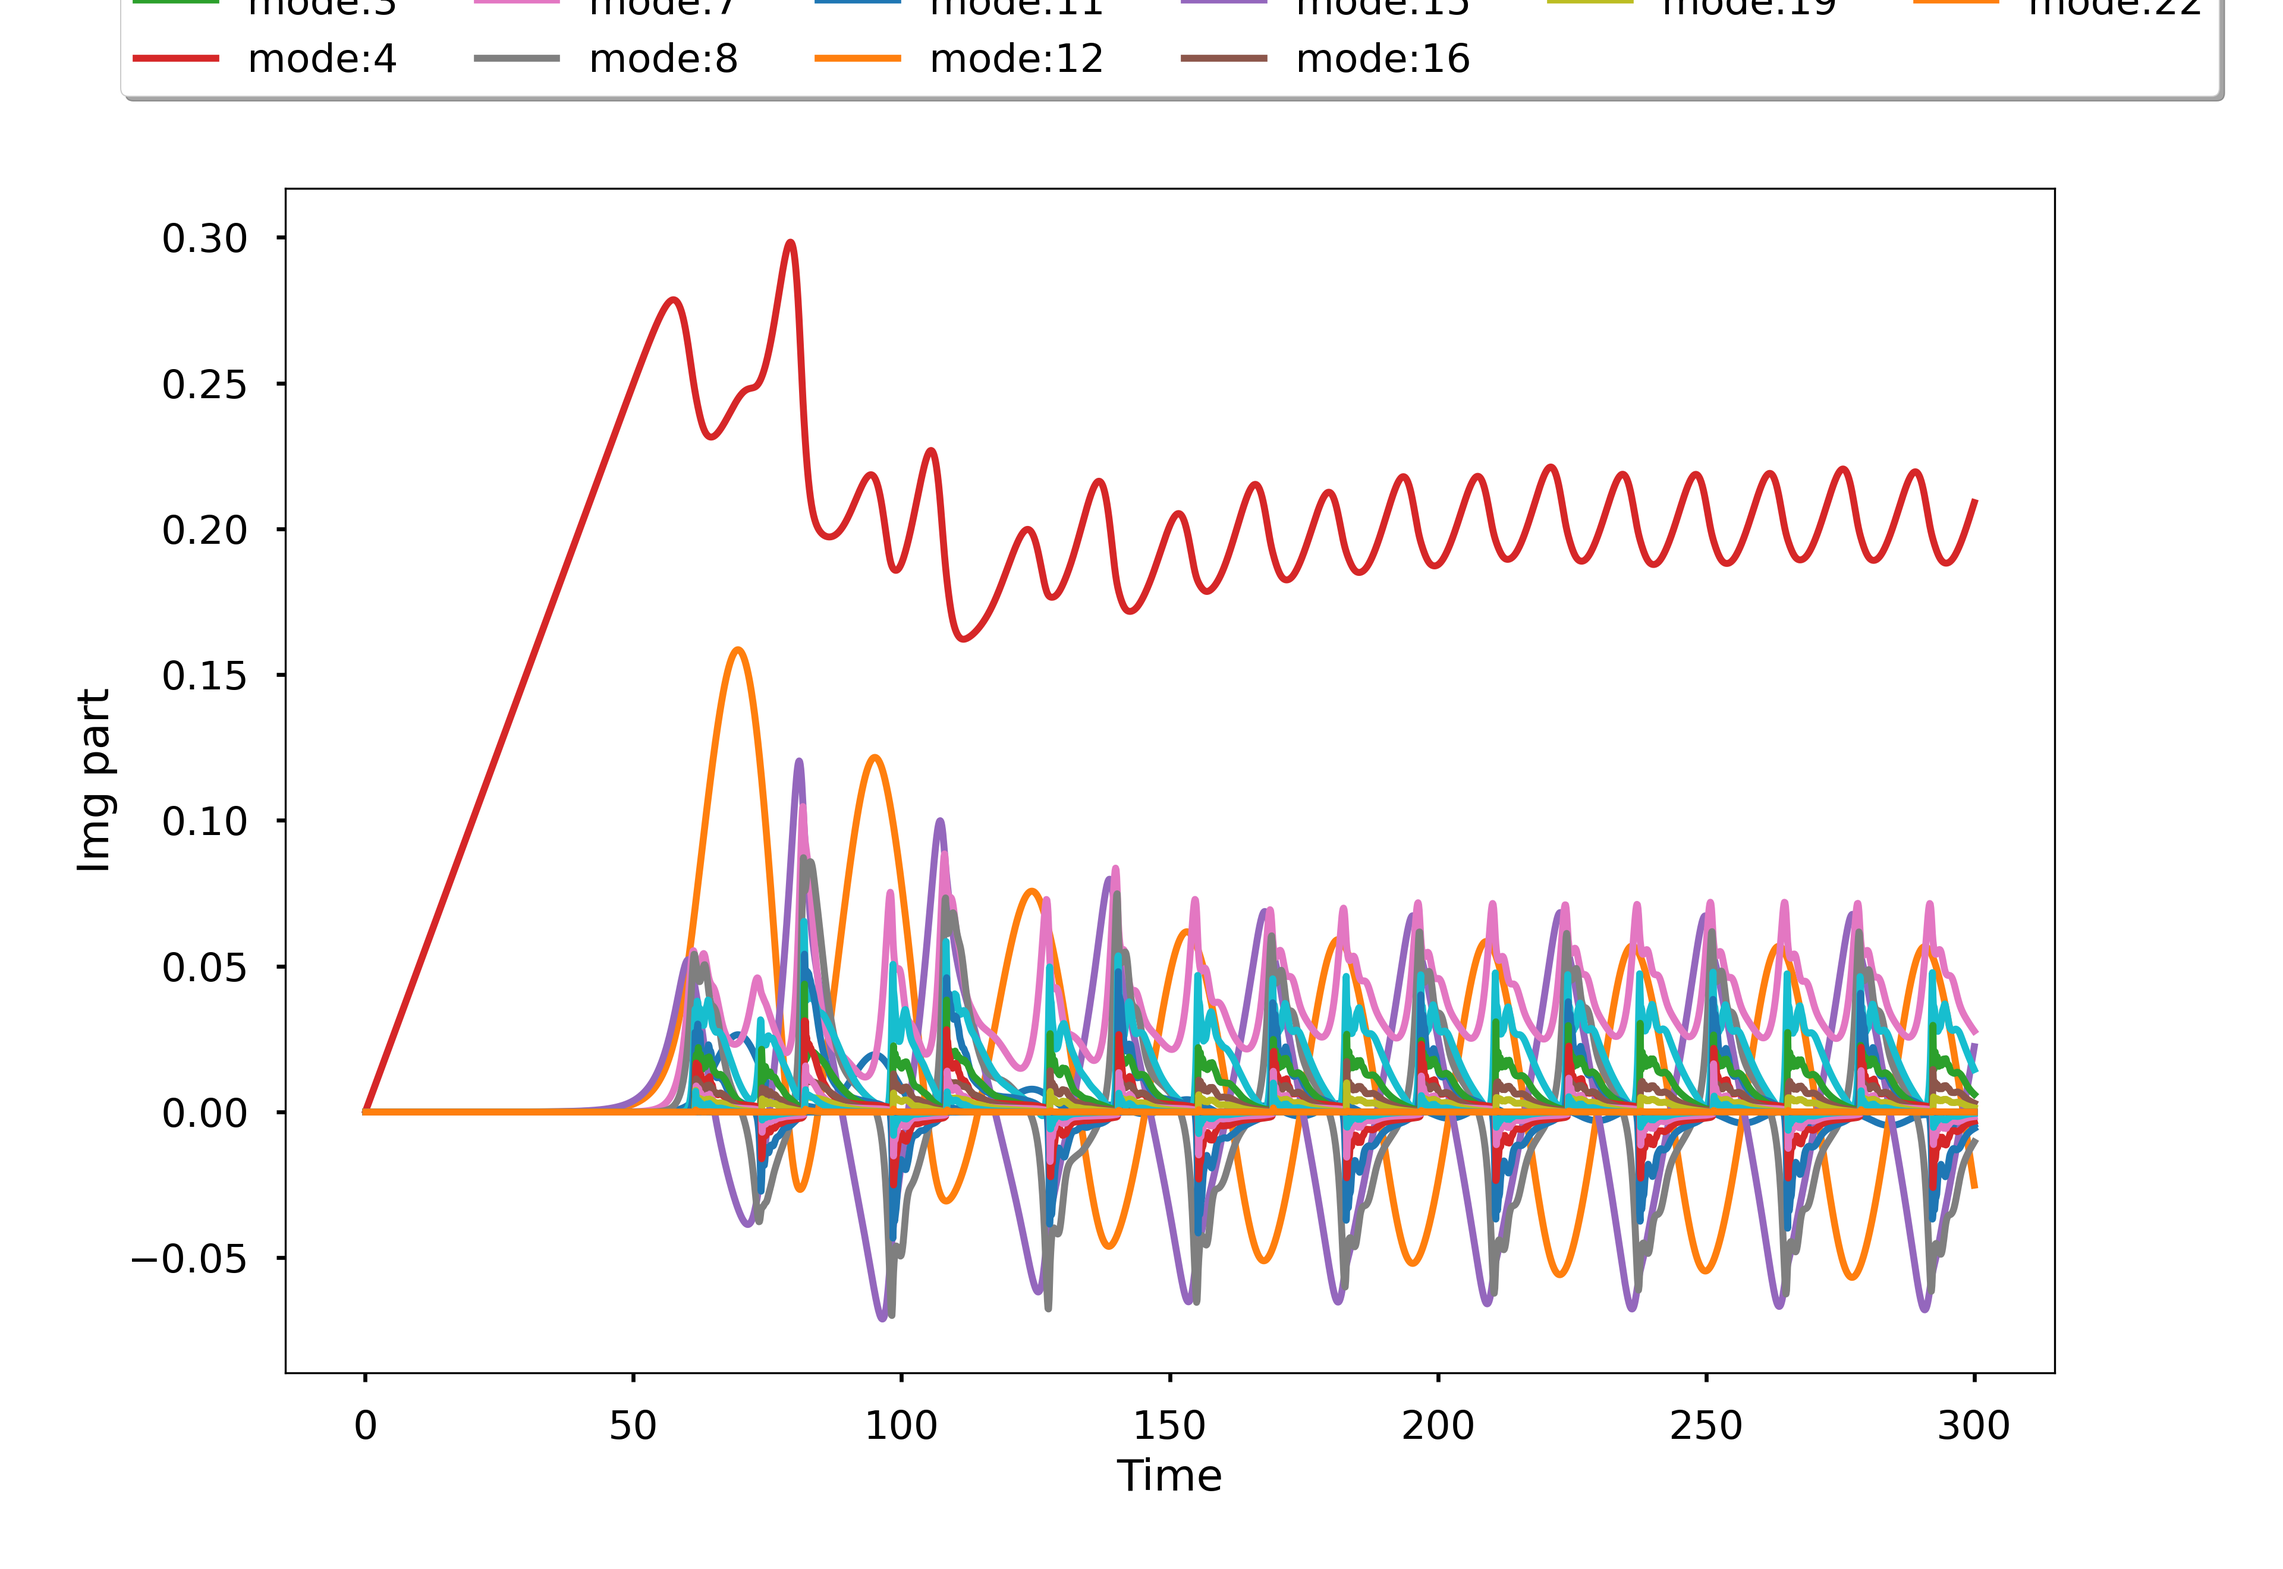
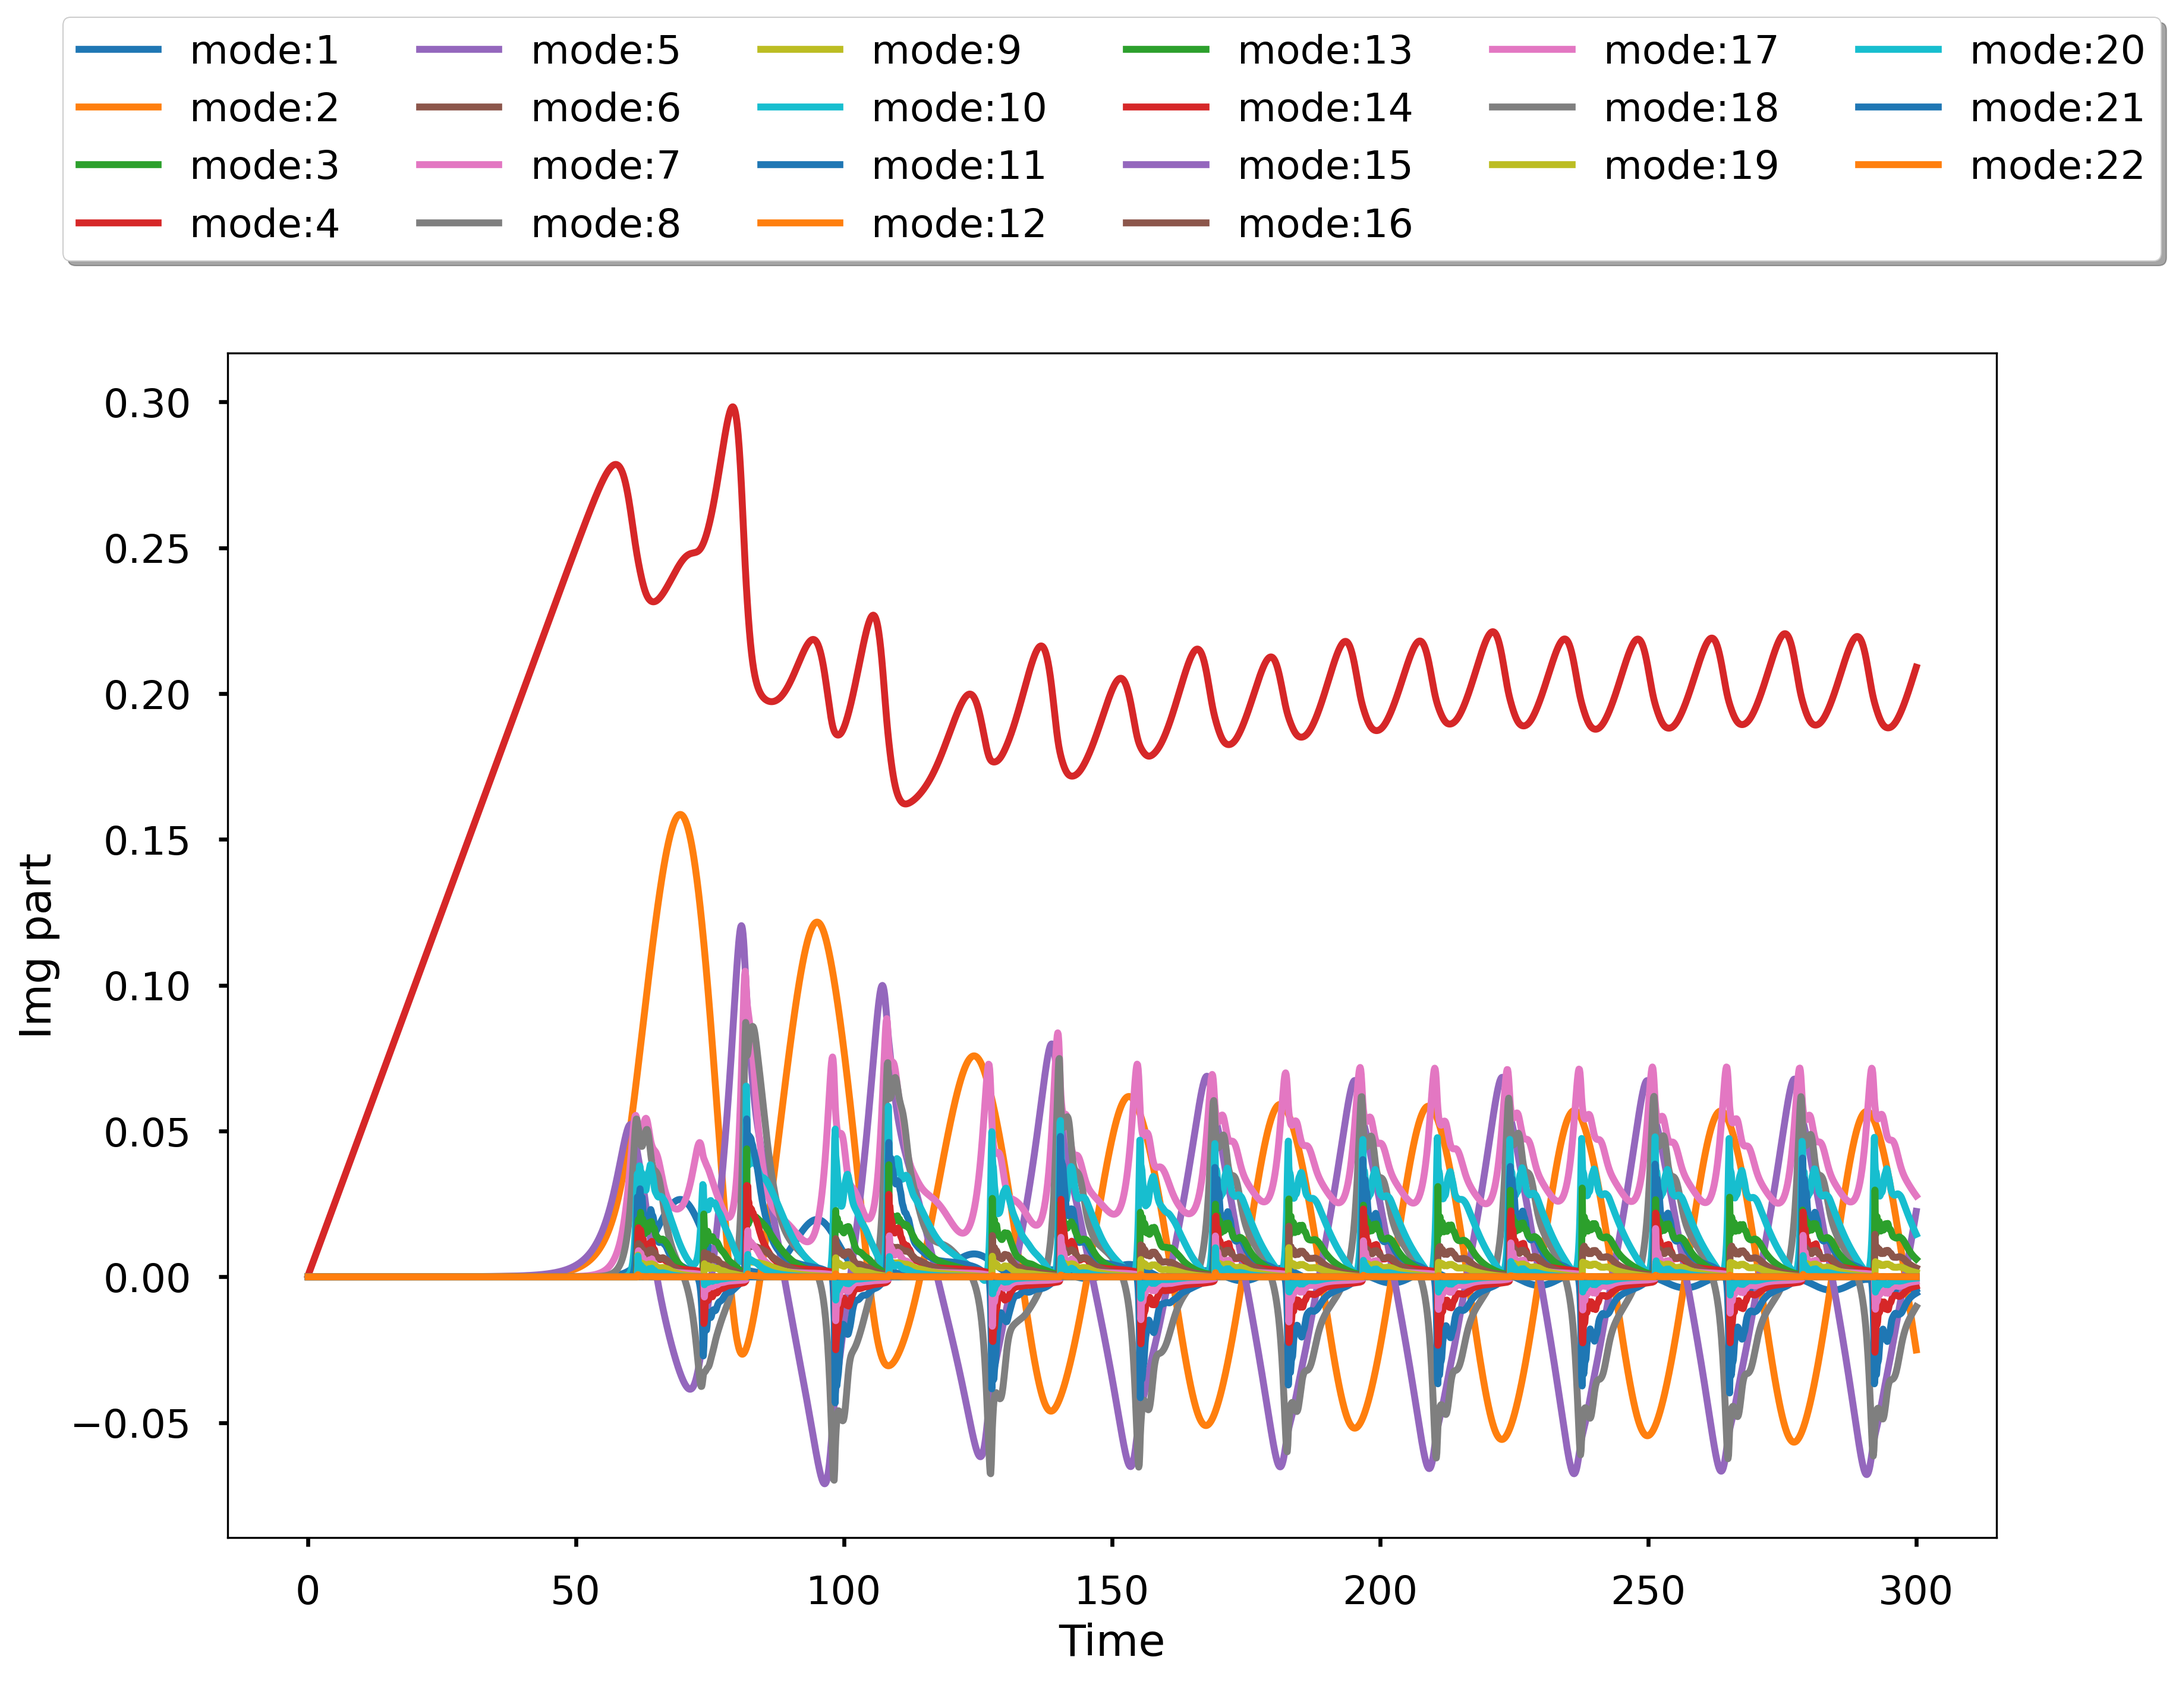
Minor corrections to figures

diff --git a/main.py b/main.py
@@ -234,7 +234,7 @@ for i in range(n):
     plt.plot(tarray[:nview],np.real(darray[:nview,i]),label="mode:"+str(i+1))
 plt.legend(loc='upper center', bbox_to_anchor=(0.5, 1.3),
           ncol=6, fancybox=True, shadow=True)
-plt.savefig("real.png",dpi=300)
+plt.savefig("real.png",dpi=300,bbox_inches='tight')
 
 plt.figure()
 for i in range(n):
@@ -243,5 +243,5 @@ for i in range(n):
     plt.plot(tarray[:nview],np.imag(darray[:nview,i]),label="mode:"+str(i+1))
 plt.legend(loc='upper center', bbox_to_anchor=(0.5, 1.3),
           ncol=6, fancybox=True, shadow=True)
-plt.savefig("imag.png",dpi=300)
+plt.savefig("imag.png",dpi=300,bbox_inches='tight')
 
